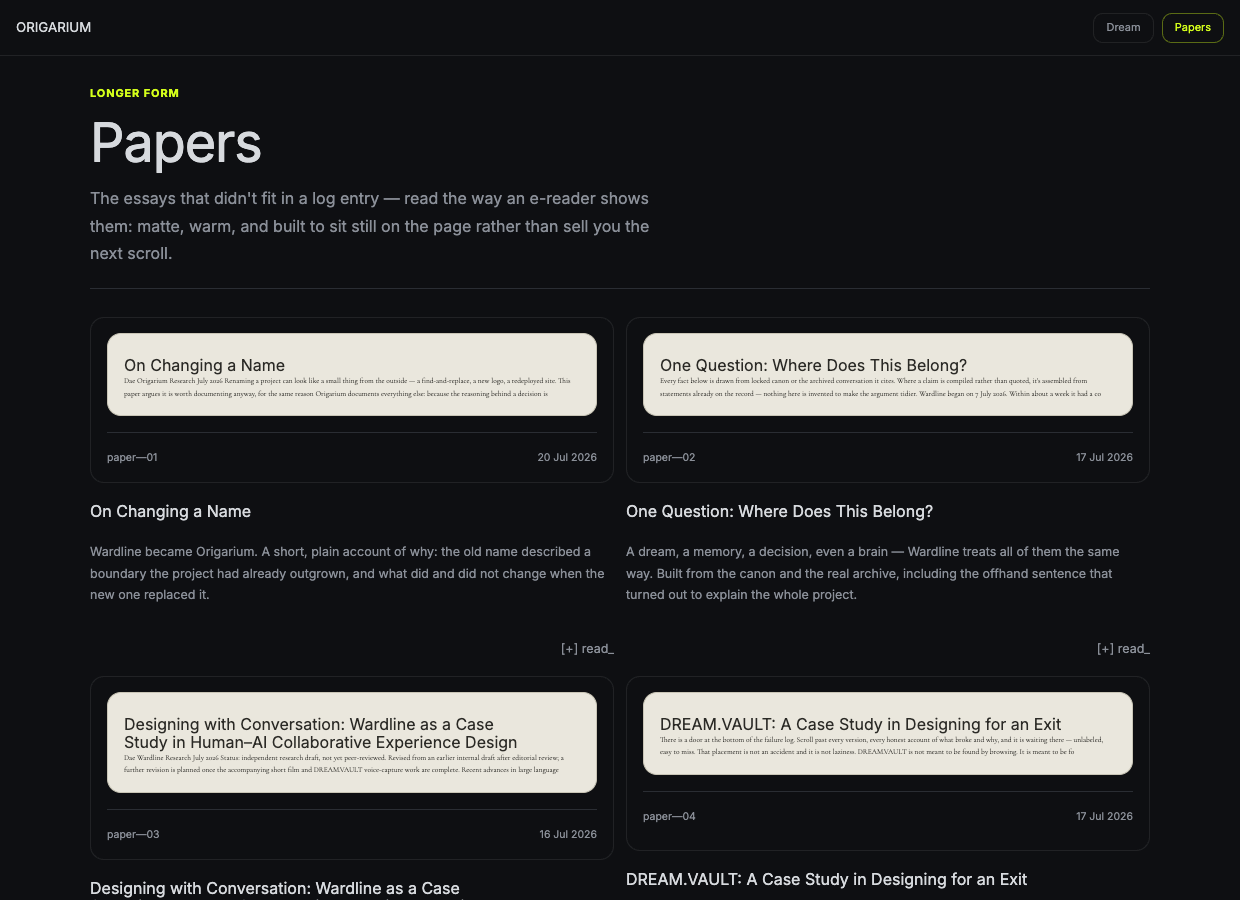
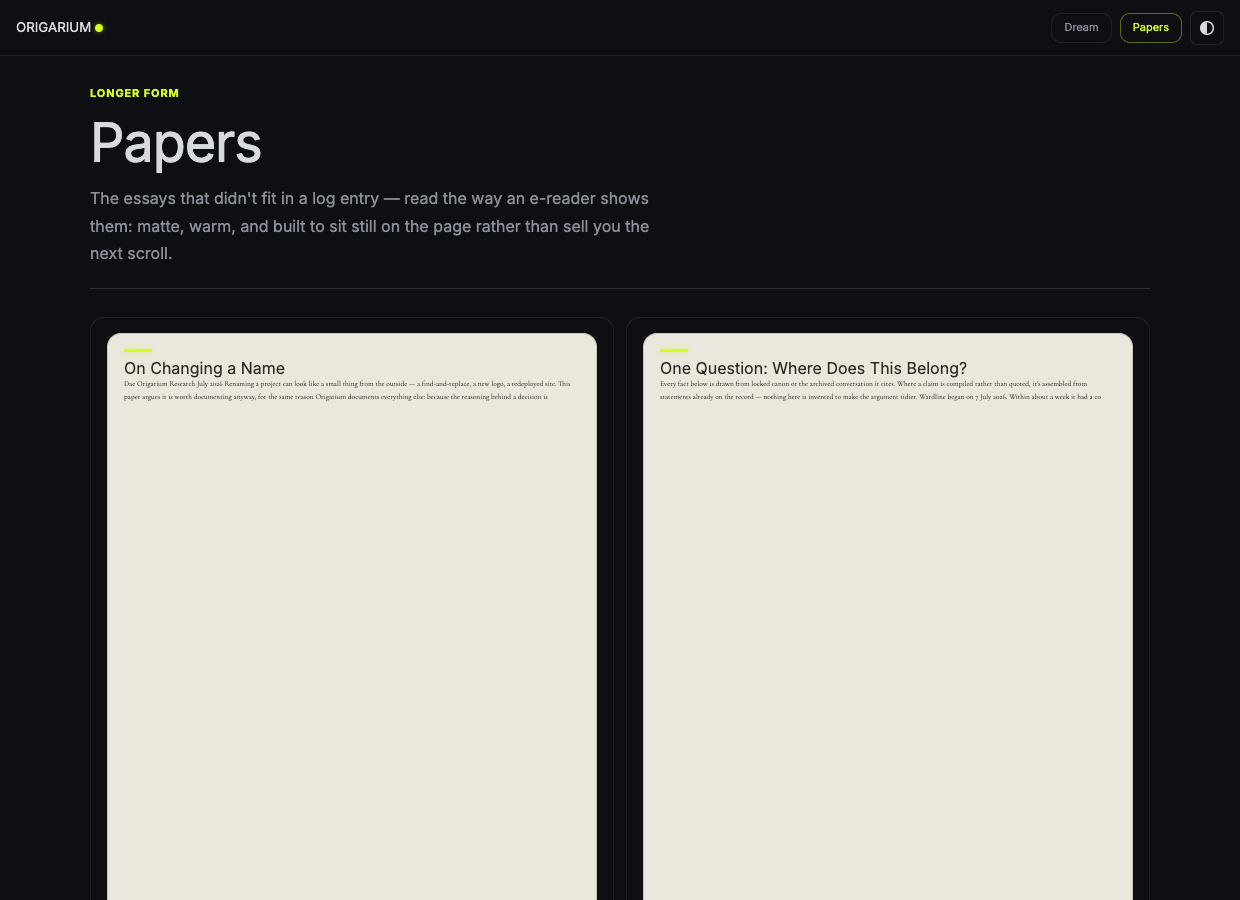
r46: the identity details, and a defect in a primitive this test added
Measured from the owner's own screenshots of the live product rather
than from the earlier capture. The lime mark on each thumbnail, the
brand dot beside ORIGARIUM, [+] read_ as an accent-toned control, the
reader's italic serif title and its circular controls, and an inert
theme toggle - the site is dark and its paper is ivory, which is the
material model rather than a second theme, so the control renders and
does nothing.

The thumbnail is not a card with text in it. It is a sheet of paper:
aspect-ratio 210/297, A4, the same shape for every paper however long
its text runs. The ratio is the constitution's, because a product
previewing letter or a card would say something else.

The glow the owner asked to name was already a decision the core had
made and hardcoded - the masthead progress bar has glowed at 0 0 10px
since it was written. It is now --app-accent-glow, every constitution
answers, and Sindhorn answers with exactly what it was already doing, so
nothing moved.

A constitution may now vary its own values by context: Origarium's
interface controls are rounded squares and its reader's are circles,
scoped in its own file, so the core still declares no value.

And a defect in the columns primitive this test added two commits ago: a
grid item is min-width:auto, so one long unbroken word made a column
wider than its share and two-across stopped being equal - four distinct
thumbnail widths in a grid whose tracks were identical. A stack arranges
[…]

diff --git a/idui-core/app-components.css b/idui-core/app-components.css
@@ -410,6 +410,15 @@ a,button,summary,[role="button"],input,select,textarea,label{-webkit-tap-highlig
    and passes it when actual beats it. Geometry is SVG attributes, never an
    inline style. The bar draws itself in once the host flags data-ready;
    data-stagger lets a grid of tracks arrive one after another. */
+/* A mark: the short accent rule that says a surface is spoken for. One
+   spacing step long, a hairline tall, carrying the constitution's glow. It
+   names nothing and measures nothing - it is the accent, applied (r46). */
+.app-mark{display:block;width:var(--space-8);height:3px;background:var(--app-accent);box-shadow:var(--app-accent-glow)}
+/* The same decision at a point rather than a line: a dot that says a thing is
+   live. Circular where the constitution allows a circle, and Sindhorn's does
+   not - it resolves the pill token to its own radius and gets a rounded
+   square, which is its rule keeping itself (r46). */
+.app-dot{display:inline-block;width:8px;height:8px;border-radius:var(--radius-pill);background:var(--app-accent);box-shadow:var(--app-accent-glow);vertical-align:baseline}
 .app-track{display:block;width:100%;height:10px;margin-top:6px;overflow:visible}
 .app-track-rail{fill:var(--app-line)}
 .app-track-mark{fill:var(--app-text);fill-opacity:.55}
@@ -504,6 +513,7 @@ a,button,summary,[role="button"],input,select,textarea,label{-webkit-tap-highlig
 .app-badge[data-tone="quiet"]{background:var(--app-inset-fill);color:var(--app-muted)}
 .app-badge[data-tone="danger"]{background:color-mix(in srgb,var(--app-danger) 18%,transparent);color:var(--app-danger)}
 .app-badge[data-tone="success"]{background:color-mix(in srgb,var(--app-success) 18%,transparent);color:var(--app-success)}
+.app-badge[data-tone="accent"]{background:color-mix(in srgb,var(--app-accent) 18%,transparent);color:var(--app-accent)}
 
 /* ---- List -------------------------------------------------------------------
    Rows separated by a hairline, never by a gap that pretends to be a card each.
@@ -787,7 +797,7 @@ body[data-public] .app-masthead-home:active{transform:none}
 /* Reading progress on the masthead's lower edge: a 2px rule in the accent
    that a page's behavior widens as the reader goes. */
 .app-masthead-progress{position:absolute;left:0;right:0;bottom:0;height:2px}
-.app-masthead-progress i{display:block;height:100%;width:0;background:var(--app-accent);box-shadow:0 0 10px var(--app-accent);transition:width var(--motion-fast) var(--motion-fade)}
+.app-masthead-progress i{display:block;height:100%;width:0;background:var(--app-accent);box-shadow:var(--app-accent-glow);transition:width var(--motion-fast) var(--motion-fade)}
 
 /* Fixed, not sticky. A sticky footer can only stick inside its containing
    block, so it depends on body actually reaching the bottom of the screen -
@@ -902,6 +912,12 @@ body[data-public] .app-masthead-home:active{transform:none}
 .app-stack{display:grid;gap:var(--space-5)}
 .app-stack[data-columns="2"]{grid-template-columns:repeat(2,minmax(0,1fr))}
 .app-stack[data-columns="3"]{grid-template-columns:repeat(3,minmax(0,1fr))}
+/* A grid item is min-width:auto by default, so one long unbroken word makes an
+   item wider than its track and a two-across row stops being equal. A stack
+   arranges peers; a peer that will not fit its share is not arranged. This
+   holds for every stack, not only the ones in columns, because a single-column
+   stack inside a column is where it actually bit (r46). */
+.app-stack>*{min-width:0}
 .app-section>.app-stack,
 .app-section>.app-card,
 .app-section>.app-row,

diff --git a/site/app-components.css b/site/app-components.css
@@ -410,6 +410,15 @@ a,button,summary,[role="button"],input,select,textarea,label{-webkit-tap-highlig
    and passes it when actual beats it. Geometry is SVG attributes, never an
    inline style. The bar draws itself in once the host flags data-ready;
    data-stagger lets a grid of tracks arrive one after another. */
+/* A mark: the short accent rule that says a surface is spoken for. One
+   spacing step long, a hairline tall, carrying the constitution's glow. It
+   names nothing and measures nothing - it is the accent, applied (r46). */
+.app-mark{display:block;width:var(--space-8);height:3px;background:var(--app-accent);box-shadow:var(--app-accent-glow)}
+/* The same decision at a point rather than a line: a dot that says a thing is
+   live. Circular where the constitution allows a circle, and Sindhorn's does
+   not - it resolves the pill token to its own radius and gets a rounded
+   square, which is its rule keeping itself (r46). */
+.app-dot{display:inline-block;width:8px;height:8px;border-radius:var(--radius-pill);background:var(--app-accent);box-shadow:var(--app-accent-glow);vertical-align:baseline}
 .app-track{display:block;width:100%;height:10px;margin-top:6px;overflow:visible}
 .app-track-rail{fill:var(--app-line)}
 .app-track-mark{fill:var(--app-text);fill-opacity:.55}
@@ -504,6 +513,7 @@ a,button,summary,[role="button"],input,select,textarea,label{-webkit-tap-highlig
 .app-badge[data-tone="quiet"]{background:var(--app-inset-fill);color:var(--app-muted)}
 .app-badge[data-tone="danger"]{background:color-mix(in srgb,var(--app-danger) 18%,transparent);color:var(--app-danger)}
 .app-badge[data-tone="success"]{background:color-mix(in srgb,var(--app-success) 18%,transparent);color:var(--app-success)}
+.app-badge[data-tone="accent"]{background:color-mix(in srgb,var(--app-accent) 18%,transparent);color:var(--app-accent)}
 
 /* ---- List -------------------------------------------------------------------
    Rows separated by a hairline, never by a gap that pretends to be a card each.
@@ -787,7 +797,7 @@ body[data-public] .app-masthead-home:active{transform:none}
 /* Reading progress on the masthead's lower edge: a 2px rule in the accent
    that a page's behavior widens as the reader goes. */
 .app-masthead-progress{position:absolute;left:0;right:0;bottom:0;height:2px}
-.app-masthead-progress i{display:block;height:100%;width:0;background:var(--app-accent);box-shadow:0 0 10px var(--app-accent);transition:width var(--motion-fast) var(--motion-fade)}
+.app-masthead-progress i{display:block;height:100%;width:0;background:var(--app-accent);box-shadow:var(--app-accent-glow);transition:width var(--motion-fast) var(--motion-fade)}
 
 /* Fixed, not sticky. A sticky footer can only stick inside its containing
    block, so it depends on body actually reaching the bottom of the screen -
@@ -902,6 +912,12 @@ body[data-public] .app-masthead-home:active{transform:none}
 .app-stack{display:grid;gap:var(--space-5)}
 .app-stack[data-columns="2"]{grid-template-columns:repeat(2,minmax(0,1fr))}
 .app-stack[data-columns="3"]{grid-template-columns:repeat(3,minmax(0,1fr))}
+/* A grid item is min-width:auto by default, so one long unbroken word makes an
+   item wider than its track and a two-across row stops being equal. A stack
+   arranges peers; a peer that will not fit its share is not arranged. This
+   holds for every stack, not only the ones in columns, because a single-column
+   stack inside a column is where it actually bit (r46). */
+.app-stack>*{min-width:0}
 .app-section>.app-stack,
 .app-section>.app-card,
 .app-section>.app-row,

diff --git a/idui-core/app-glass.css b/idui-core/app-glass.css
@@ -189,6 +189,8 @@
 [data-context="reader"] .app-close-control{color:var(--app-document-ink)}
 [data-context="reader"] .app-card,
 [data-context="reader"] .app-surface{border-color:var(--app-document-border)}
+/* A control in a reading context is round here because Origarium's is; the
+   shape is the constitution's, scoped to the context in its own file. */
 [data-context="reader"] .app-control{
   background-color:transparent;
   backdrop-filter:none;-webkit-backdrop-filter:none;
@@ -198,7 +200,17 @@
    the same face the prose is. A page still writes .app-hero-title; what that
    means here is the constitution's to say. */
 [data-context="reader"] .app-hero-title,
-[data-context="reader"] .app-surface-title{font-family:var(--font-prose)}
+[data-context="reader"] .app-surface-title{font-family:var(--font-prose);font-style:var(--type-prose-style)}
+
+/* A document in preview keeps a page's proportion. The original's thumbnail is
+   aspect-ratio 210/297 - it is not a card with text in it, it is a sheet of
+   paper, and every paper is the same shape however long its text runs. The
+   ratio is the constitution's, because a product previewing letter or a card
+   would say something else (r46). */
+[data-surface="document"][data-mode="preview"]{
+  aspect-ratio:var(--ratio-page);
+  overflow:hidden;
+}
 
 [data-surface="document"]{
   background-color:var(--app-document-fill);

diff --git a/site/app-glass.css b/site/app-glass.css
@@ -189,6 +189,8 @@
 [data-context="reader"] .app-close-control{color:var(--app-document-ink)}
 [data-context="reader"] .app-card,
 [data-context="reader"] .app-surface{border-color:var(--app-document-border)}
+/* A control in a reading context is round here because Origarium's is; the
+   shape is the constitution's, scoped to the context in its own file. */
 [data-context="reader"] .app-control{
   background-color:transparent;
   backdrop-filter:none;-webkit-backdrop-filter:none;
@@ -198,7 +200,17 @@
    the same face the prose is. A page still writes .app-hero-title; what that
    means here is the constitution's to say. */
 [data-context="reader"] .app-hero-title,
-[data-context="reader"] .app-surface-title{font-family:var(--font-prose)}
+[data-context="reader"] .app-surface-title{font-family:var(--font-prose);font-style:var(--type-prose-style)}
+
+/* A document in preview keeps a page's proportion. The original's thumbnail is
+   aspect-ratio 210/297 - it is not a card with text in it, it is a sheet of
+   paper, and every paper is the same shape however long its text runs. The
+   ratio is the constitution's, because a product previewing letter or a card
+   would say something else (r46). */
+[data-surface="document"][data-mode="preview"]{
+  aspect-ratio:var(--ratio-page);
+  overflow:hidden;
+}
 
 [data-surface="document"]{
   background-color:var(--app-document-fill);

diff --git a/idui-core/constitutions/origarium/app-tokens.css b/idui-core/constitutions/origarium/app-tokens.css
@@ -55,6 +55,9 @@
   --app-muted:#8a8f98;
   --app-line:#2a2d33;
   --app-inset-fill:#101216;
+  --app-accent-glow:0 0 6px rgba(212,255,26,.5);
+  --type-prose-style:italic;
+   /* the lime mark and the brand dot emit; the reader sets its title in italic */
   --app-accent:#d4ff1a;
   --app-accent-rgb:212,255,26;
   --app-ground:#0e0f12;
@@ -92,6 +95,8 @@
      Rendered radii: 4, 7, 10, 12, 14, 24 — and 50% on the round controls.
      Origarium draws circles; that is its rule to make, and the core draws its
      one circle through the pill token, so nothing had to change for it. */
+  --ratio-page:210/297;
+   /* the thumbnail is a sheet: A4, measured from the original */
   --radius-surface:14px;
   --radius-inset:10px;
   --radius-tight:4px;
@@ -138,4 +143,13 @@
 
 @media (prefers-reduced-motion:reduce){
   :root{ --motion-ms:1ms; --motion-reveal:1ms; --motion-view:1ms; }
+}
+
+/* A constitution may vary its own values by context. Origarium's interface
+   controls are rounded squares; the reader's are circles, which is a decision
+   about that place rather than about controls. Scoped here, so the core still
+   declares no value. */
+[data-context="reader"]{
+  --radius-control:var(--radius-pill);
+  --size-icon-control:30px;
 }

diff --git a/idui-core/evidence/origarium/after/papers.js b/idui-core/evidence/origarium/after/papers.js
@@ -48,7 +48,8 @@ function cardMarkup(paper, index) {
   return `<div class="app-stack" data-paper="${index}">
     <article class="app-card app-surface">
       <div class="app-card-section">
-        <div class="app-card app-surface" data-surface="document">
+        <div class="app-card app-surface" data-surface="document" data-mode="preview">
+          <span class="app-mark"></span>
           <p class="app-surface-title">${esc(paper.title)}</p>
           <div class="app-prose" data-size="caption"><p>${esc(opening(paper.body))}</p></div>
         </div>
@@ -61,7 +62,7 @@ function cardMarkup(paper, index) {
     <h3 class="app-surface-title">${esc(paper.title)}</h3>
     <p class="app-surface-copy">${esc(paper.summary || '')}</p>
     <div class="app-utility-row">
-      <button class="app-utility-action" type="button" data-open="${index}">[+] read_</button>
+      <button class="app-badge app-control" type="button" data-tone="accent" data-open="${index}">[+] read_</button>
     </div>
   </div>`;
 }

diff --git a/idui-core/evidence/origarium/after/papers.html b/idui-core/evidence/origarium/after/papers.html
@@ -32,10 +32,16 @@
 <body>
 
 <header class="app-masthead">
-  <div class="app-masthead-home">ORIGARIUM</div>
+  <div class="app-masthead-home">ORIGARIUM <span class="app-dot"></span></div>
   <div class="app-masthead-tools">
     <button class="app-chip app-control" type="button">Dream</button>
     <button class="app-chip app-control" type="button" aria-current="page">Papers</button>
+    <!-- The original carries a theme control here. The rebuild renders it and
+         does nothing: Origarium is dark and its paper is ivory, which is the
+         material model, not a second theme (owner, 6 Sep 2026). -->
+    <button class="app-close-control app-control" type="button" aria-label="Theme" aria-disabled="true">
+      <svg viewBox="0 0 20 20" aria-hidden="true"><circle cx="10" cy="10" r="7"/><path d="M10 3a7 7 0 0 0 0 14z" fill="currentColor" stroke="none"/></svg>
+    </button>
   </div>
 </header>
 

diff --git a/idui-core/constitutions/sindhorn/app-tokens.css b/idui-core/constitutions/sindhorn/app-tokens.css
@@ -71,6 +71,9 @@
   --app-muted:rgba(250,247,245,.70);
   --app-line:rgba(250,247,245,.09);
   --app-inset-fill:rgba(250,247,245,.055);
+  --app-accent-glow:0 0 10px var(--app-accent);
+  --type-prose-style:normal;
+   /* the masthead progress already glowed; now it is named */
   --app-accent:#E5ECBE;
   --app-accent-rgb:229,236,190;
   /* The ground every page stands on and the atmosphere paints over (r33:
@@ -101,6 +104,8 @@
   --app-success:#72A75D;
   --app-danger:#E3A2A8;
 
+  --ratio-page:210/297;
+   /* no document previews here; the page is A4 if one ever appears */
   --radius-surface:14px;  /* cards, panels, sheets   —  28 uses */
   --radius-inset:10px;
   /* A framed control - chip, primary, select trigger, icon control -

diff --git a/site/app-tokens.css b/site/app-tokens.css
@@ -71,6 +71,9 @@
   --app-muted:rgba(250,247,245,.70);
   --app-line:rgba(250,247,245,.09);
   --app-inset-fill:rgba(250,247,245,.055);
+  --app-accent-glow:0 0 10px var(--app-accent);
+  --type-prose-style:normal;
+   /* the masthead progress already glowed; now it is named */
   --app-accent:#E5ECBE;
   --app-accent-rgb:229,236,190;
   /* The ground every page stands on and the atmosphere paints over (r33:
@@ -101,6 +104,8 @@
   --app-success:#72A75D;
   --app-danger:#E3A2A8;
 
+  --ratio-page:210/297;
+   /* no document previews here; the page is A4 if one ever appears */
   --radius-surface:14px;  /* cards, panels, sheets   —  28 uses */
   --radius-inset:10px;
   /* A framed control - chip, primary, select trigger, icon control -

diff --git a/idui-core/constitutions/flipgazine/app-tokens.css b/idui-core/constitutions/flipgazine/app-tokens.css
@@ -54,6 +54,9 @@
   --app-muted:var(--muted,#858887);
   --app-line:var(--line,rgba(244,241,235,.09));
   --app-inset-fill:var(--surface,#151918);
+  --app-accent-glow:0 0 10px var(--app-accent);
+  --type-prose-style:normal;
+
   --app-accent:var(--accent,#00F0D1);
   --app-accent-rgb:var(--accent-rgb,0,240,209);
   --app-ground:var(--bg,#0D1110);
@@ -78,6 +81,8 @@
   /* ---- Shape ------------------------------------------------------------
      14 on the table of contents, 12 on notes, commands and quotes, 8 on
      the copy chip, and a pill on every control. */
+  --ratio-page:210/297;
+
   --radius-surface:14px;
   --radius-inset:12px;
   --radius-tight:8px;

diff --git a/idui-core/evidence/origarium/RESULTS.md b/idui-core/evidence/origarium/RESULTS.md
@@ -31,7 +31,9 @@ ground, the lime accent and the warm paper thumbnails.
 
 ## What the core needed
 
-Six entries, five reusable capabilities and one misowned assumption returned to where it belonged. None product-specific. No **D** at all, and
+Nine entries: seven reusable capabilities, one misowned assumption returned to
+where it belonged, and one defect in a capability this test had itself added.
+None product-specific. No **D** at all, and
 no **D-P**.
 
 **That number is not evidence on its own.** Candidate A also reported D-P = 0
@@ -49,6 +51,10 @@ fidelity is not a win — it is unresolved.
 | 4 | A stack can flow in columns | **C** | Two rules, no token. `data-columns`, already in the vocabulary |
 | 5 | Material has scope: a context can make a material the ground | **C** | One rule block, no token. `data-context="reader"` |
 | 6 | A view may scale and fade where its material draws no blur | **A** | The core held a Sindhorn constraint as universal. One keyframe, 3 tokens, and a gate that enforces the condition |
+| 7 | A document in preview keeps a page's proportion | **C** | One rule + 1 token. The thumbnail is a sheet, `aspect-ratio: 210/297` |
+| 8 | The accent can emit light | **C** | 1 token. The core already glowed its progress bar, hardcoded; now it is named |
+| 9 | A mark and a dot: the accent as a short rule and as a point | **C** | Two rules, no token |
+| — | Stack items must fit their track | **defect** | `min-width:auto` let one long word make a column wider than its share; two-across was not equal |
 | — | Miniature prose at caption scale | **free** | Existing token, existing variant word |
 | — | Meta at micro scale | **free** | Existing token, existing variant word |
 | — | A third blur weight | **not spent** | The rebuild renders on one |
